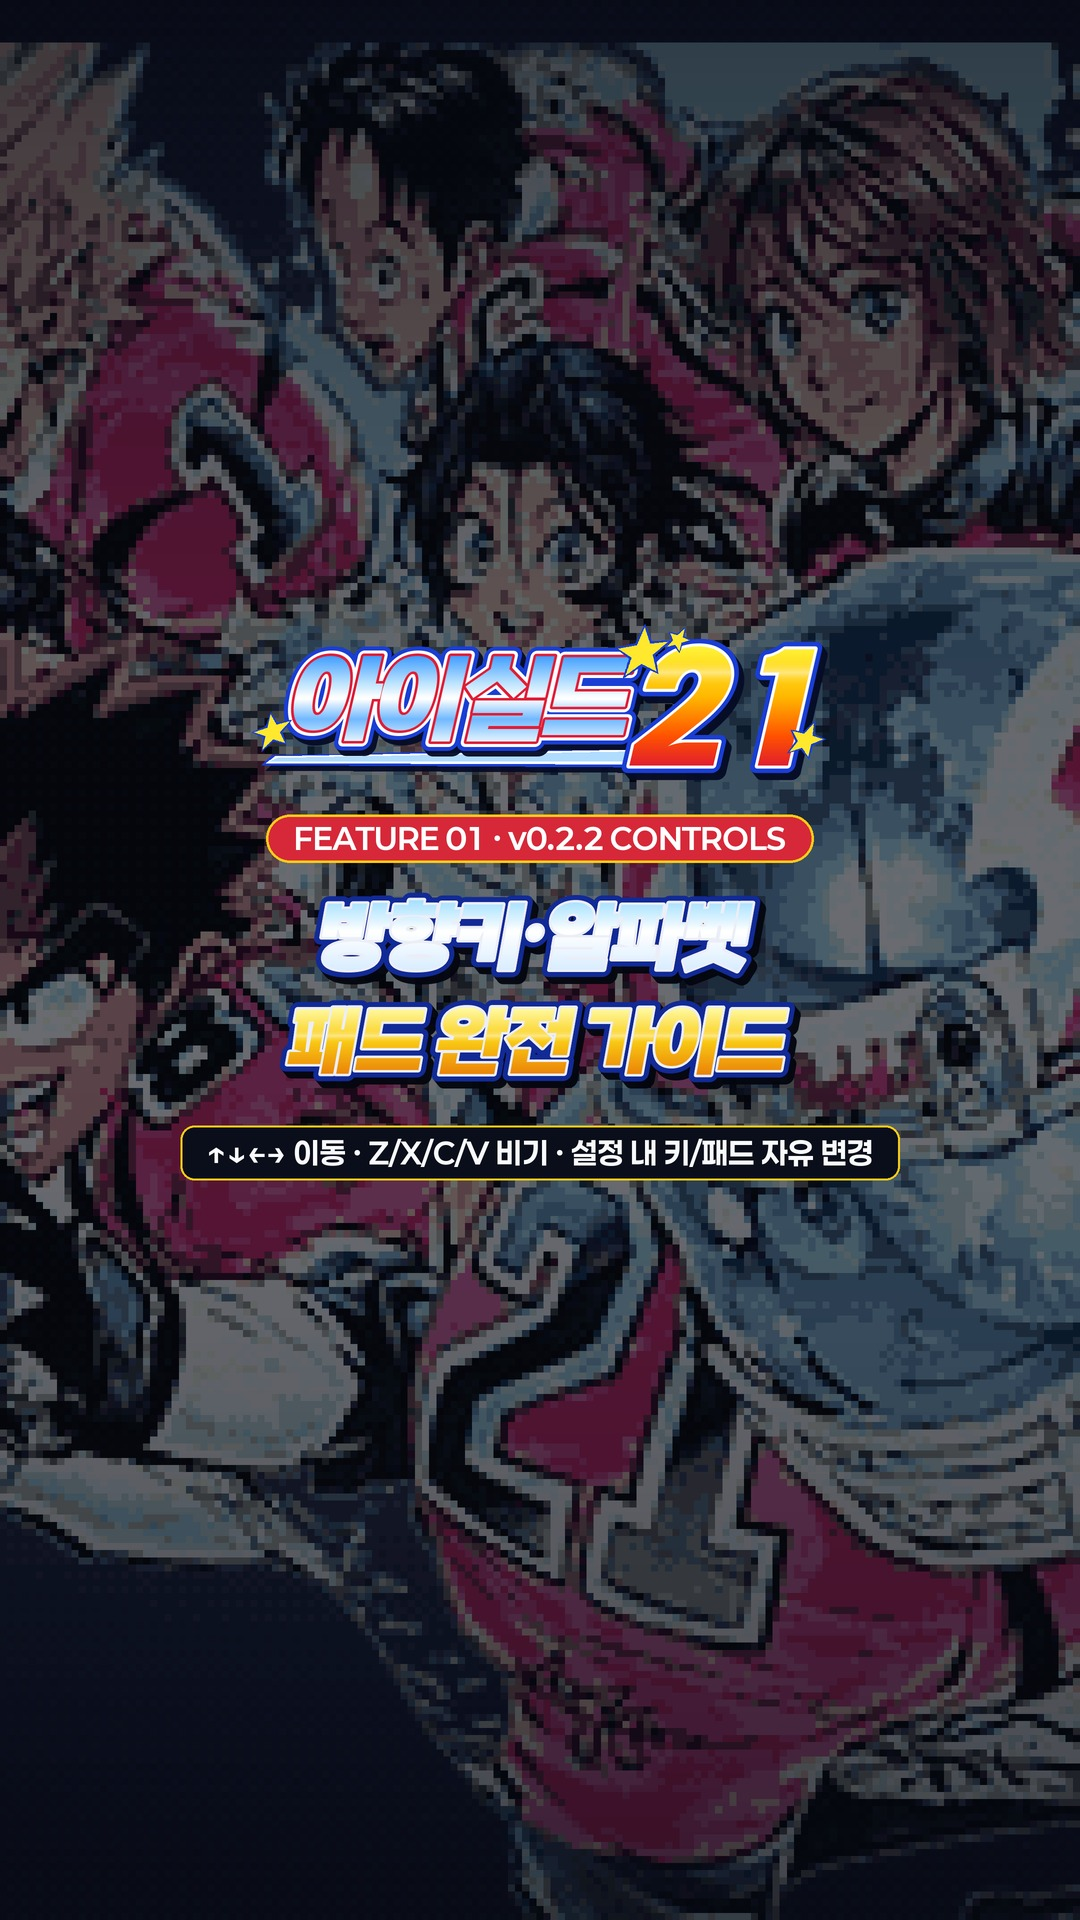
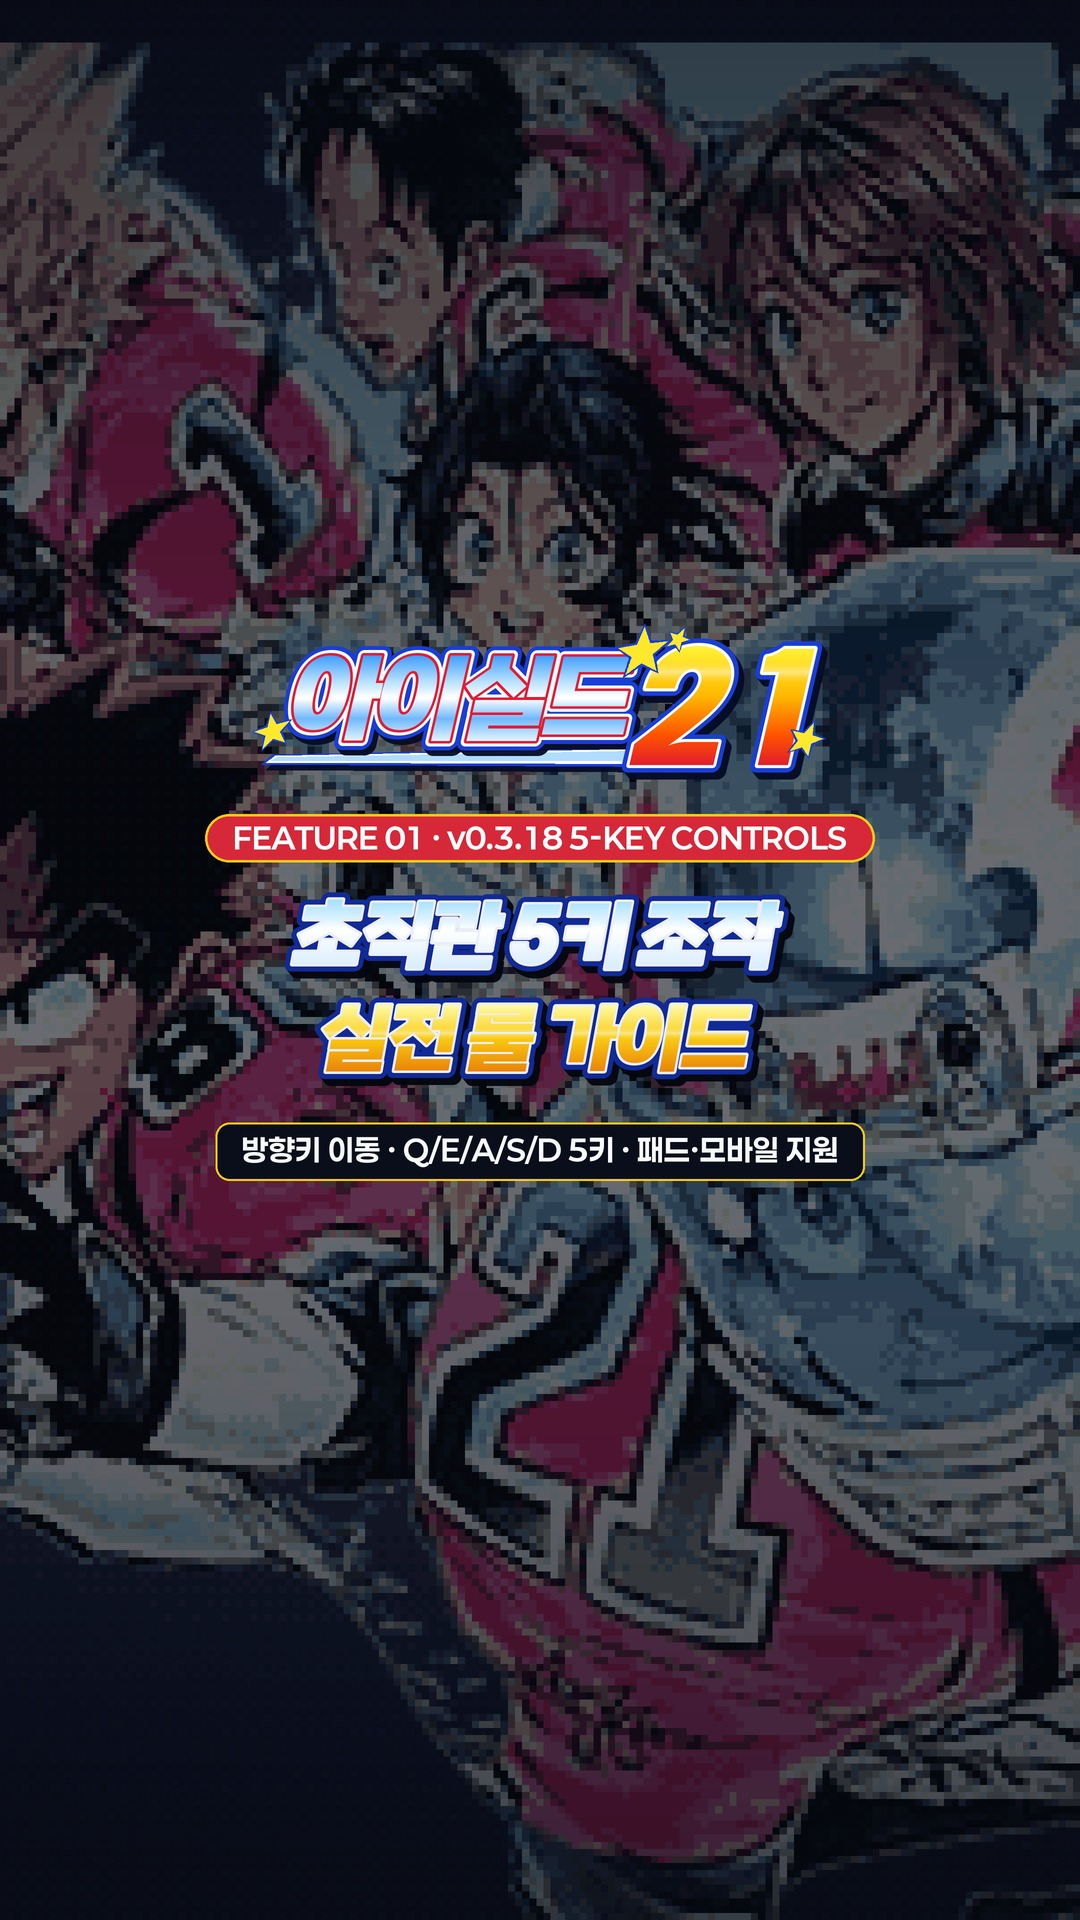
chore(videos): update Feature Shorts 01-03 to v0.3.18 YouTube links and posters

Changed region(s): [[0.1528, 0.3125, 0.8556, 0.625]]

diff --git a/src/data/portalData.ts b/src/data/portalData.ts
@@ -119,39 +119,39 @@ export const PORTAL_VIDEOS: PortalVideo[] = [
   },
   {
     id: 'shorts-01-controls',
-    title: '쇼츠 01 · 실시간 11 vs 11 조작 & 룰 해설',
-    subtitle: '광속 돌파·패스·YAC 전환·골라인 터치다운 규칙 해설 (현행 v0.3.18: Q·E·A·S·D 직관 5키 기본 적용)',
+    title: '쇼츠 01 · 초직관 5키(Q·E·A·S·D) 조작 & 실전 룰 가이드',
+    subtitle: '방향키 이동 · E 전력질주 · Q 전환 · A+방향키 필살기 · S/E+S 패스 · 4번 안에 10야드 & 터치다운 해설',
     duration: '00:23',
     aspect: '9/16',
     tag: '조작 가이드',
     localSrc: './media/shorts_01_controls.mp4',
-    youtubeId: 'M9V0SXmyxPk',
+    youtubeId: 'tlSvGGNCX68',
     poster: './media/poster_shorts_01.jpg',
-    publishedAt: '2026. 11. 25.',
+    publishedAt: '2026. 11. 27.',
   },
   {
     id: 'shorts-02-specials',
-    title: '쇼츠 02 · 원작 정발판 필살기 한글 컷인 112종',
-    subtitle: '데빌 배트 고스트 · 데빌 레이저 불릿 · 트라이던트 태클 · 극한의 임펄스 · 데빌 4 디멘션 해설',
+    title: '쇼츠 02 · 대원씨아이 정발 고증 필살기 한글 컷인 112종',
+    subtitle: '데빌 배트 고스트 · 데빌 레이저 불릿 · 트라이던트 태클 · 극한의 임펄스 · 데빌 4 디멘션 & 도감 수집 해설',
     duration: '00:25',
     aspect: '9/16',
     tag: '필살기 도감',
     localSrc: './media/shorts_02_specials.mp4',
-    youtubeId: 'mzYPSBvSbwo',
+    youtubeId: 'HlBl9BNSO1M',
     poster: './media/poster_shorts_02.jpg',
-    publishedAt: '2026. 11. 25.',
+    publishedAt: '2026. 11. 27.',
   },
   {
     id: 'shorts-03-story-manager',
-    title: '쇼츠 03 · 15챕터 스토리 & 42팀 871명 감독 커리어',
-    subtitle: '코이가하마~와세다 EX 정발 고증 15챕터, 42팀 871명 로스터, 훈련·플레이북 및 다이너스티 해설',
+    title: '쇼츠 03 · 정발 1~37권 전면 개편 스토리 15챕터 & 42팀 감독 커리어',
+    subtitle: '네모칸 리터칭 만화 컷 & 히루마 코칭, 2,000km 데스마치, 42팀 871명 로스터·멘토링·다이너스티 해설',
     duration: '00:23',
     aspect: '9/16',
     tag: '스토리·감독',
     localSrc: './media/shorts_03_story_manager.mp4',
-    youtubeId: '_nxQRk0fkFg',
+    youtubeId: '2XPdru2YZPI',
     poster: './media/poster_shorts_03.jpg',
-    publishedAt: '2026. 11. 25.',
+    publishedAt: '2026. 11. 27.',
   },
 ];
 
